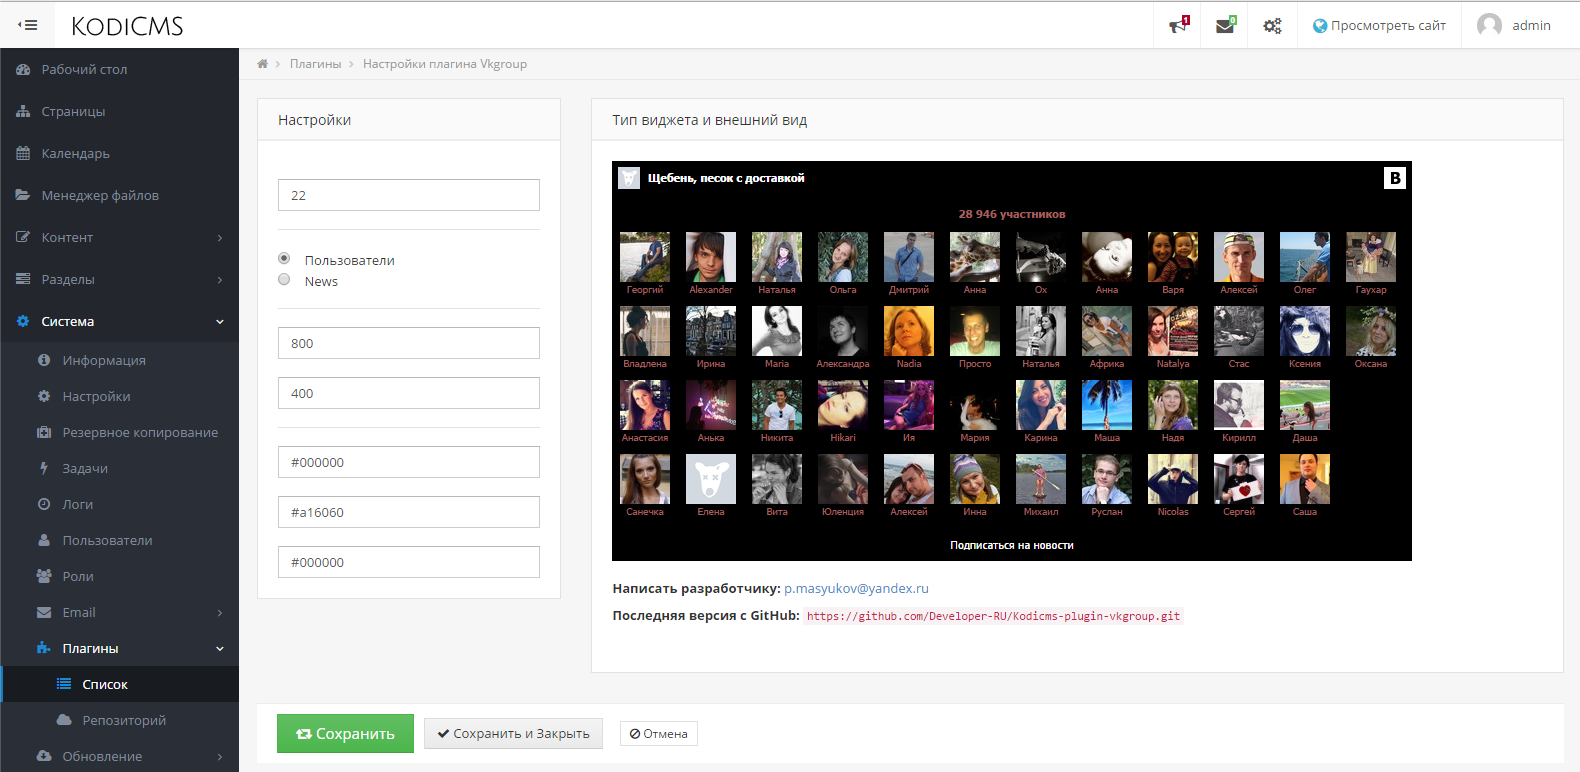
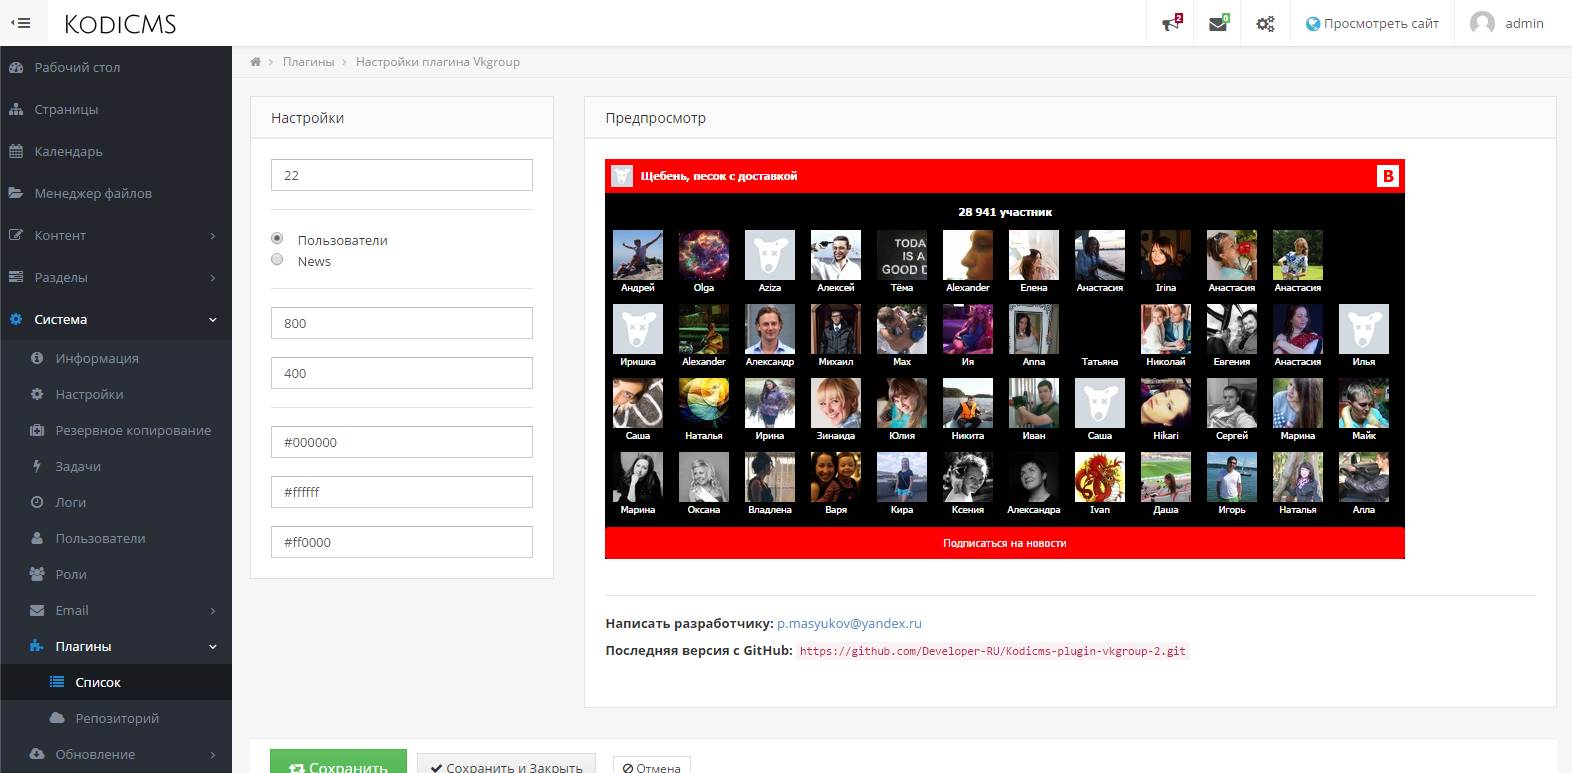
Update 31.08.2014

diff --git a/views/vkgroup/settings.php b/views/vkgroup/settings.php
@@ -1,3 +1,21 @@
+<?php
+
+/**
+ * @Описание файла: "vkgroup 2.0"
+ * 
+ * -------
+ * 
+ * Виджет Вконтакте - KodiCms
+ * 
+ * -------
+ * @Разработчик Масюков Павел
+ * @Дата создания 29.08.2014
+ * @Email p.masyukov@yandex.ru
+ * @URL https://github.com/Developer-RU
+ * 
+ */
+
+?>
 <div class="row">
 
     <div class="col-sm-3">
@@ -6,15 +24,14 @@
                 <span class="panel-title"><?php echo __('Settings'); ?></span>
             </div> 
             <div class="panel-body">
-                <?php echo $form; ?>
+<?php echo $form; ?>
                 <div class="control-group">
-                    <br>            
                     <div class="controls">
-                        <?php echo Form::input('setting[group]', $plugin->get('group'), array('id' => 'setting_group', 'class' => 'form-control', 'placeholder' => Arr::get($plugin->labels(), 'group'))); ?>
+<?php echo Form::input('setting[group]', $plugin->get('group'), array('id' => 'setting_group', 'class' => 'form-control', 'placeholder' => Arr::get($plugin->labels(), 'group'))); ?>
                     </div> 
                     <hr class="divider">
                     <div class="controls">
-                        <?php echo Form::radio('setting[type]', 0, ($plugin->get('type') == 0), array('id' => 'setting_type_user')) . "&#160;&#160;&#160;"; ?>
+<?php echo Form::radio('setting[type]', 0, ($plugin->get('type') == 0), array('id' => 'setting_type_user')) . "&#160;&#160;&#160;"; ?>
                         <?php echo Arr::get($plugin->labels(), 'users') . "&#160;&#160;&#160;"; ?>  
                         <br>
                         <?php echo Form::radio('setting[type]', 1, ($plugin->get('type') == 1), array('id' => 'setting_type_news')) . "&#160;&#160;&#160;"; ?>
@@ -22,23 +39,23 @@
                     </div>
                     <hr class="divider">
                     <div class="controls">
-                        <?php echo Form::input('setting[width]', $plugin->get('width'), array('id' => 'setting_width', 'class' => 'form-control', 'placeholder' => Arr::get($plugin->labels(), 'width'))); ?>
+<?php echo Form::input('setting[width]', $plugin->get('width'), array('id' => 'setting_width', 'class' => 'form-control', 'placeholder' => Arr::get($plugin->labels(), 'width'))); ?>
                     </div><br>
                     <div class="controls">
-                        <?php echo Form::input('setting[height]', $plugin->get('height'), array('id' => 'setting_height', 'class' => 'form-control', 'placeholder' => Arr::get($plugin->labels(), 'height'))); ?>
+<?php echo Form::input('setting[height]', $plugin->get('height'), array('id' => 'setting_height', 'class' => 'form-control', 'placeholder' => Arr::get($plugin->labels(), 'height'))); ?>
                     </div>
                     <hr class="divider">
                     <div class="controls">
-                        <?php echo Form::input('setting[bgcolor]', $plugin->get('bgcolor'), array('id' => 'setting_bgcolor', 'class' => 'form-control', 'placeholder' => Arr::get($plugin->labels(), 'bgcolor'))); ?>
+<?php echo Form::input('setting[bgcolor]', $plugin->get('bgcolor'), array('id' => 'setting_bgcolor', 'class' => 'form-control', 'placeholder' => Arr::get($plugin->labels(), 'bgcolor'))); ?>
                     </div><br>
                     <div class="controls">
-                        <?php echo Form::input('setting[textcolor]', $plugin->get('textcolor'), array('id' => 'setting_textcolor', 'class' => 'form-control', 'placeholder' => Arr::get($plugin->labels(), 'textcolor'))); ?>
+<?php echo Form::input('setting[textcolor]', $plugin->get('textcolor'), array('id' => 'setting_textcolor', 'class' => 'form-control', 'placeholder' => Arr::get($plugin->labels(), 'textcolor'))); ?>
                     </div><br>
                     <div class="controls">
-                        <?php echo Form::input('setting[btncolor]', $plugin->get('btncolor'), array('id' => 'setting_btncolor', 'class' => 'form-control', 'placeholder' => Arr::get($plugin->labels(), 'btncolor'))); ?>
+<?php echo Form::input('setting[btncolor]', $plugin->get('btncolor'), array('id' => 'setting_btncolor', 'class' => 'form-control', 'placeholder' => Arr::get($plugin->labels(), 'btncolor'))); ?>
                     </div>
                 </div>
-                <?php echo Form::close(); ?>
+<?php echo Form::close(); ?>
             </div>
         </div> 
     </div> 
@@ -46,7 +63,7 @@
     <div class="col-sm-9">	
         <div class="panel">
             <div class="panel-heading">
-                <span class="panel-title"><?php echo __('Тип виджета и внешний вид'); ?></span>
+                <span class="panel-title"><?php echo __('Preview'); ?></span>
             </div> 
             <div class="panel-body">
                 <script type="text/javascript" src="//vk.com/js/api/openapi.js?115"></script>
@@ -63,8 +80,9 @@
                     }, <?php echo $plugin->get('group'); ?>);
                 </script>
                 <noscript>Please enable JavaScript to view the widget Vkgroup.</a></noscript><br>
+                <hr class="divider">
                 <p><b>Написать разработчику:  </b>   <a href="mailto:p.masyukov@yandex.ru" class="dsq-brlink">p.masyukov@yandex.ru</a></p>
-                <p><b>Последняя версия с GitHub: </b>   <code>https://github.com/Developer-RU/Kodicms-plugin-vkgroup.git</code></p><br>
+                <p><b>Последняя версия с GitHub: </b>   <code>https://github.com/Developer-RU/Kodicms-plugin-vkgroup-2.git</code></p><br>
             </div>
         </div>
     </div>

diff --git a/i18n/ru.php b/i18n/ru.php
@@ -3,7 +3,7 @@
 defined('SYSPATH') or die('No direct access allowed.');
 
 /**
- * @Описание файла: "vkgroup"
+ * @Описание файла: "vkgroup 2.0"
  * 
  * -------
  * 
@@ -21,6 +21,7 @@ return array(
     'Vkgroup'=>'Виджет Вконтакте',
     'Group' => 'Идентификатор',
     'Widget' => 'Виджет группы Вконтакте',
+    'Preview' => 'Предпросмотр',
     'Settings' => 'Настройки',
     'Width' => 'Ширина',
     'Height' => 'Высота',

diff --git a/init.php b/init.php
@@ -3,7 +3,7 @@
 defined('SYSPATH') or die('No direct script access.');
 
 /**
- * @Описание файла: "vkgroup"
+ * @Описание файла: "vkgroup 2.0"
  * 
  * -------
  * 
@@ -16,6 +16,7 @@ defined('SYSPATH') or die('No direct script access.');
  * @URL https://github.com/Developer-RU
  * 
  */
+
 Plugin::factory('vkgroup', array(
     'title' => 'Vkgroup',
     'description' => 'Виджет группы вконтакте',

diff --git a/views/widgets/frontend/vkgroup.php b/views/widgets/frontend/vkgroup.php
@@ -12,5 +12,3 @@
     }, <?php echo $plugin->get('group'); ?>);
 </script>
 <noscript>Please enable JavaScript to view the widget Vkgroup.</a></noscript><br>
-<p><b>Написать разработчику:  </b>   <a href="mailto:p.masyukov@yandex.ru" class="dsq-brlink">p.masyukov@yandex.ru</a></p>
-<p><b>Последняя версия с GitHub: </b>   <code>https://github.com/Developer-RU/Kodicms-plugin-vkgroup.git</code></p><br>

diff --git a/classes/plugin/vkgroup.php b/classes/plugin/vkgroup.php
@@ -3,7 +3,7 @@
 defined('SYSPATH') or die('No direct access allowed.');
 
 /**
- * @Описание файла: "vkgroup"
+ * @Описание файла: "vkgroup 2.0"
  * 
  * -------
  * 
@@ -16,6 +16,7 @@ defined('SYSPATH') or die('No direct access allowed.');
  * @URL https://github.com/Developer-RU
  * 
  */
+
 class Plugin_Vkgroup extends Plugin_Decorator {
 
     public function rules() {

diff --git a/classes/model/widget/vkgroup.php b/classes/model/widget/vkgroup.php
@@ -3,7 +3,7 @@
 defined('SYSPATH') or die('No direct access allowed.');
 
 /**
- * @Описание файла: "vkgroup"
+ * @Описание файла: "vkgroup 2.0"
  * 
  * -------
  * 

diff --git a/config/widgets.php b/config/widgets.php
@@ -3,7 +3,7 @@
 defined('SYSPATH') or die('No direct access allowed.');
 
 /**
- * @Описание файла: "vkgroup"
+ * @Описание файла: "vkgroup 2.0"
  * 
  * -------
  * 

diff --git a/views/widgets/backend/vkgroup.php b/views/widgets/backend/vkgroup.php
@@ -1,7 +1,7 @@
 <?php
 
 /**
- * @Описание файла: "vkgroup"
+ * @Описание файла: "vkgroup 2.0"
  * 
  * -------
  * 

diff --git a/README.md b/README.md
@@ -1,4 +1,4 @@
-Kodicms-plugin-vkgroup (v11)
+Kodicms-plugin-vkgroup
 ======================
 
 Плагин виджета Вконтакте.
@@ -6,4 +6,4 @@
 
 Установка - создать виджет, создать снипет, скопировать код с шаблона по умолчанию.
 
-Для корректного отображения в админ панели заменить файл settings.php (в видах модуля plugins)
+Заменить файл шаблона настройки - из папки плагин скопировать файл settings в папку модуля cms/plugins/views/plugin/
